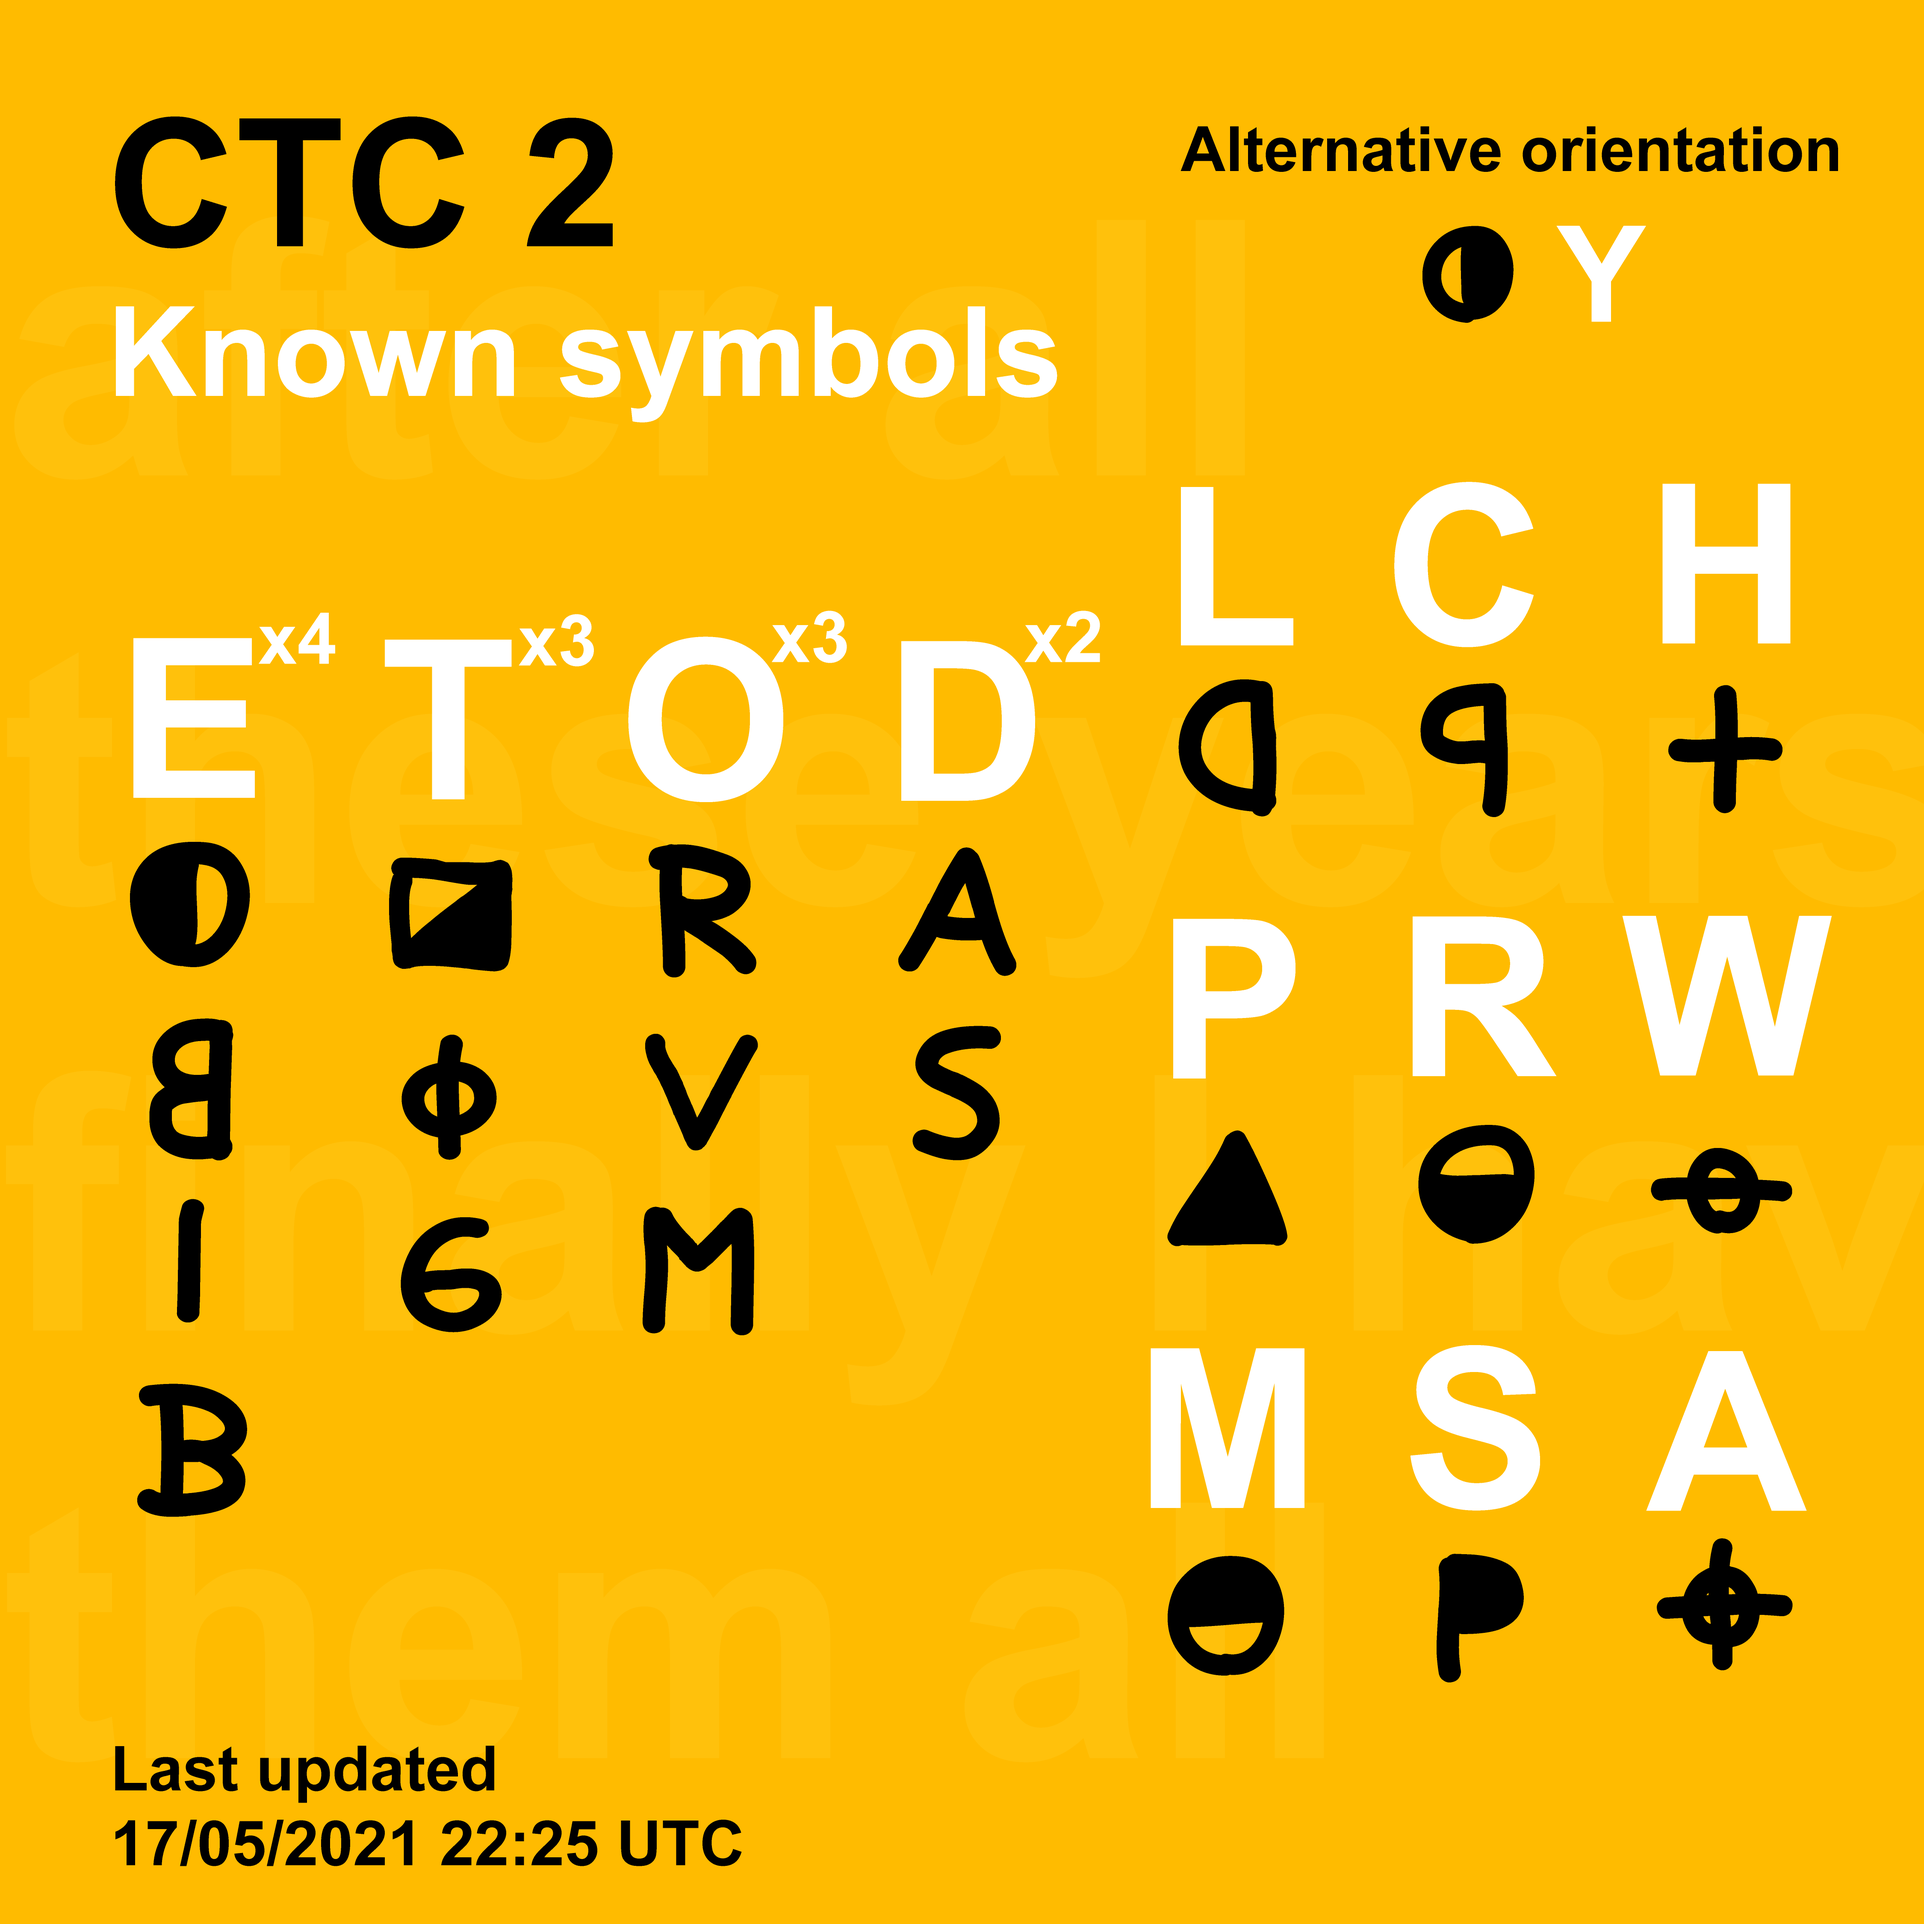
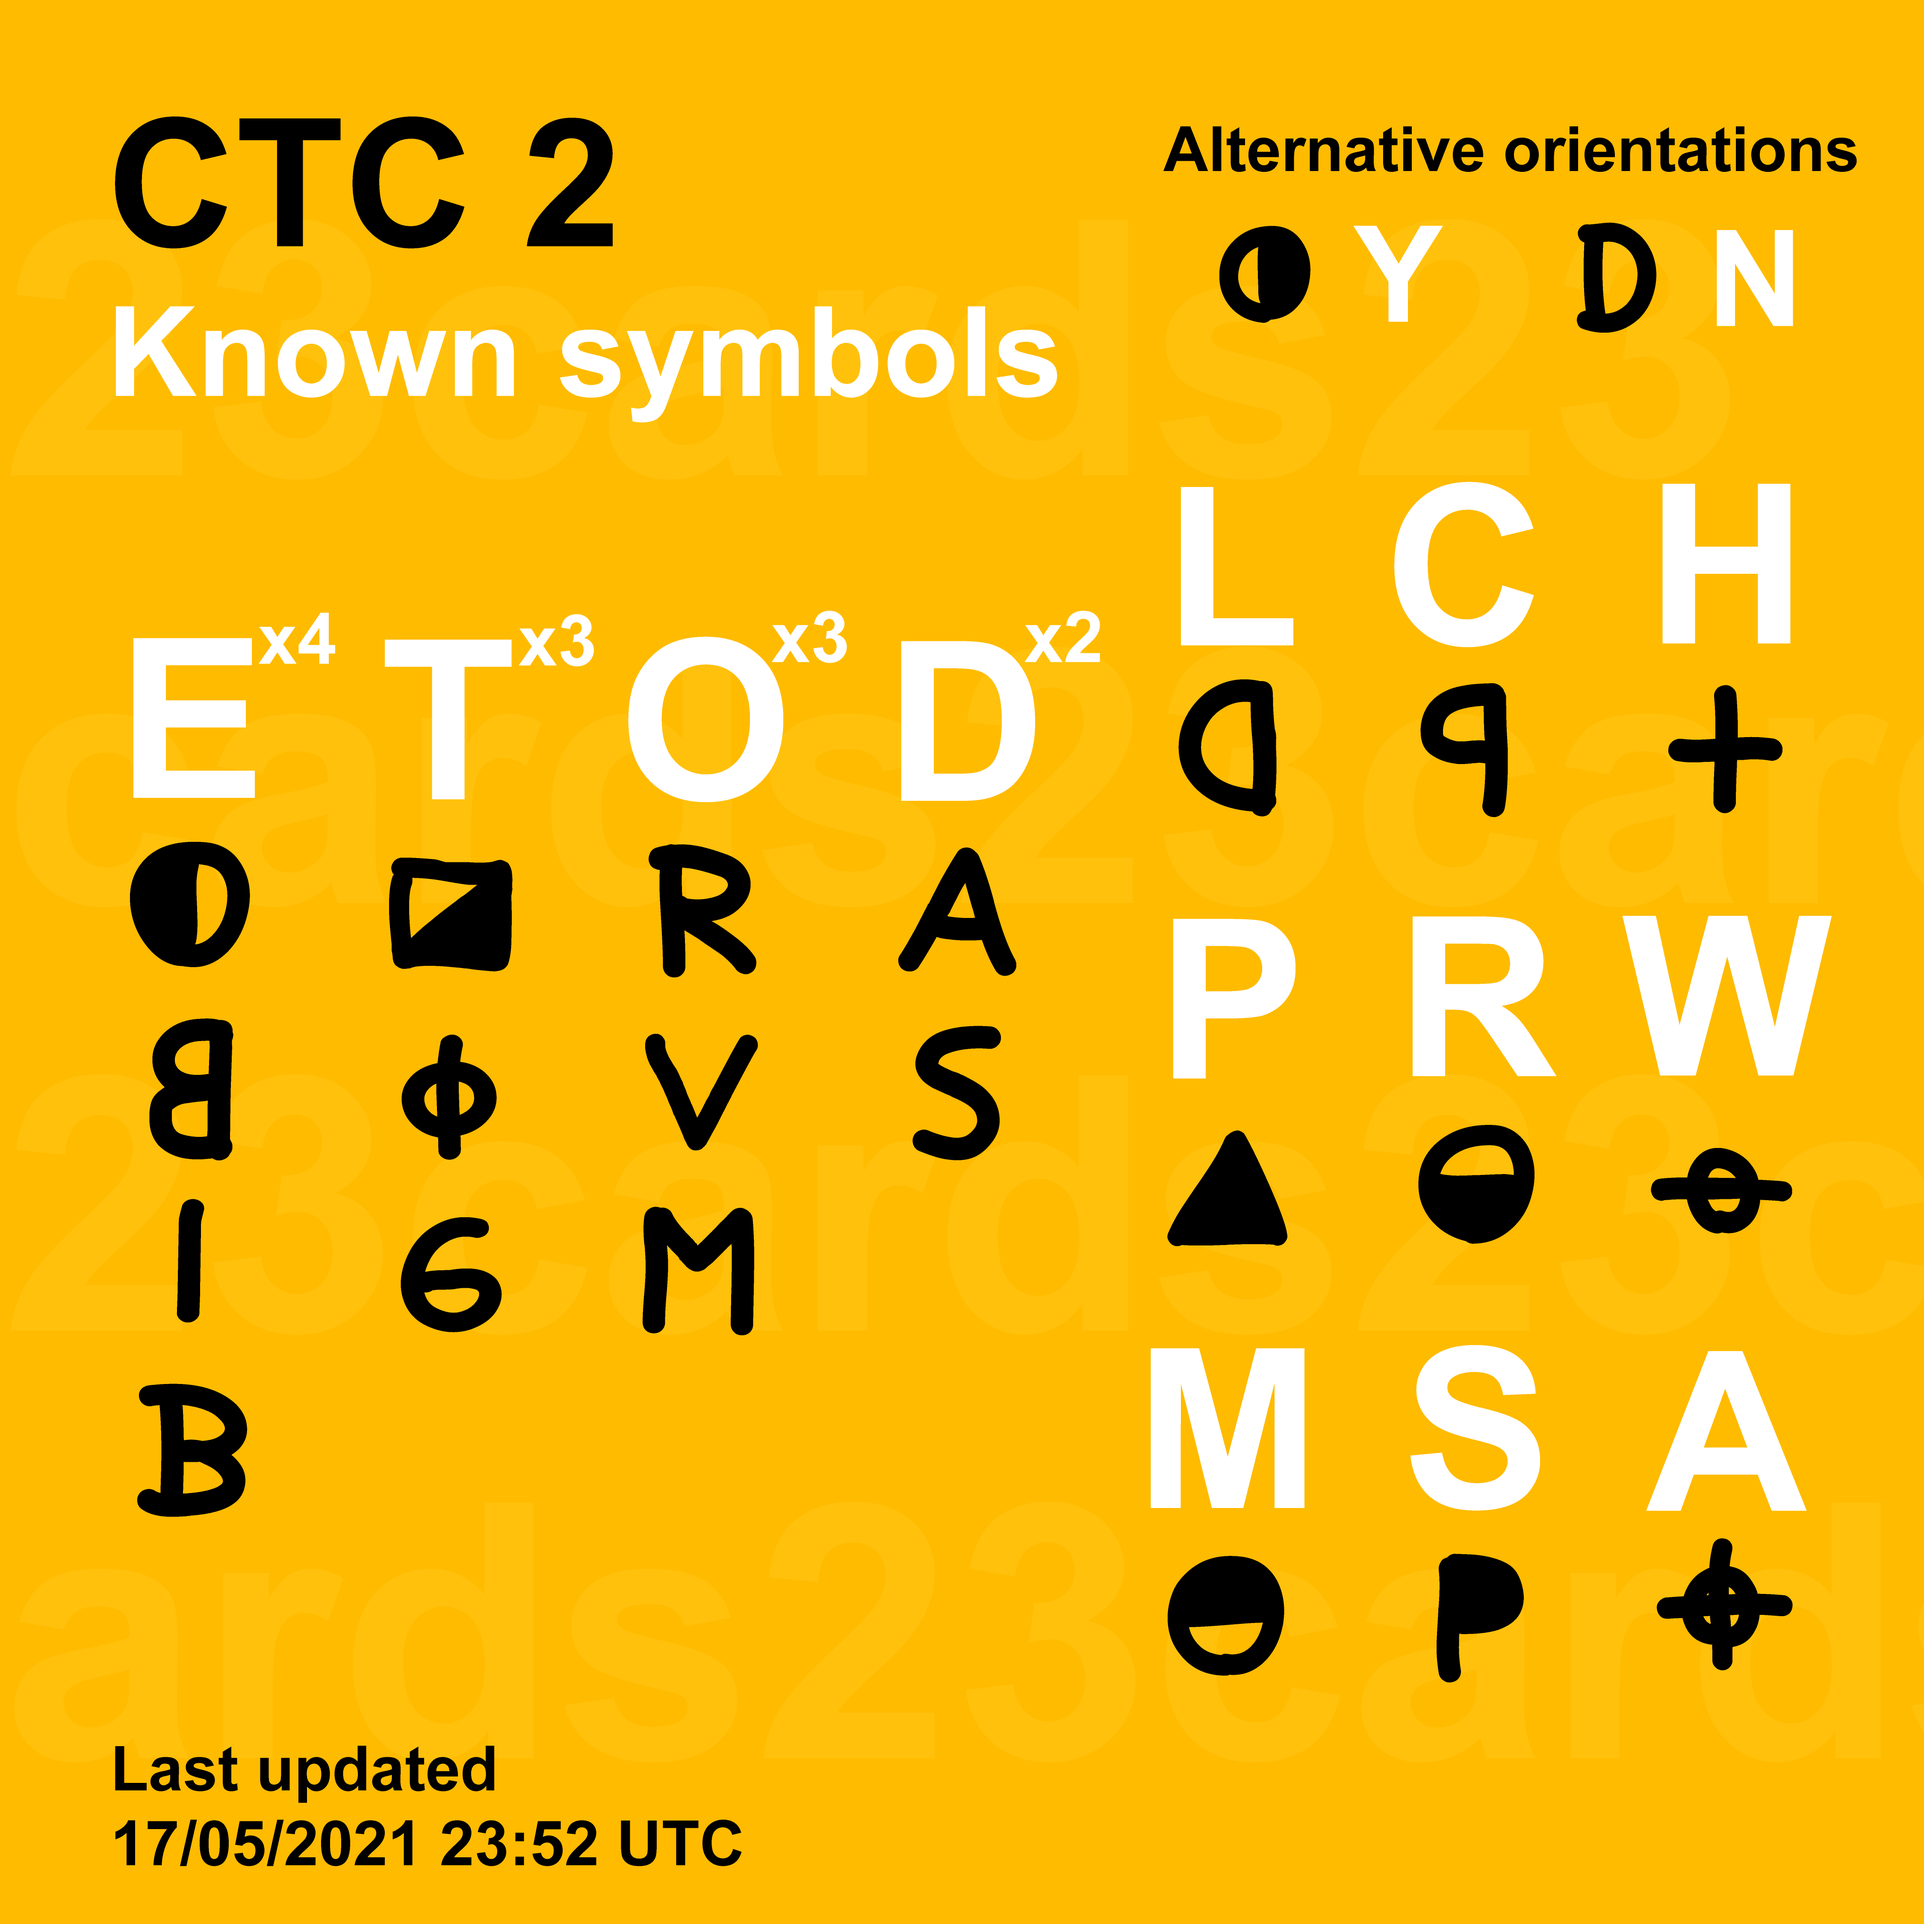
anti-dumb patch (#10) lol u stupid bitch

Changed region(s): [[0.5911, 0.0622, 0.9644, 0.1867], [0.2489, 0.9333, 0.3111, 0.9644]]

diff --git a/acquiredSymbols/README.md b/acquiredSymbols/README.md
@@ -13,7 +13,7 @@ This file show the symbols found for the dbrand Complete the Code 2 challenge.
 | D | <img src="D-0.png" width="425"/> <img src="D-1.png" width="425"/> | 
 | E | <img src="E-0.png" width="425"/> <img src="E-1.png" width="425"/> <img src="E-2.png" width="425"/> <img src="E-3-ph.png" width="425"/> |
 | H | <img src="H-0-ph.png" width="425"/> |
-| H | <img src="L-0.png" width="425"/> |
+| L | <img src="L-0.png" width="425"/> |
 | M | <img src="M-0.png" width="425"/> |
 | O | <img src="O-0.png" width="425"/> <img src="O-1.png" width="425"/> <img src="O-2.png" width="425"/> |
 | P | <img src="P-0.png" width="425"/> |
